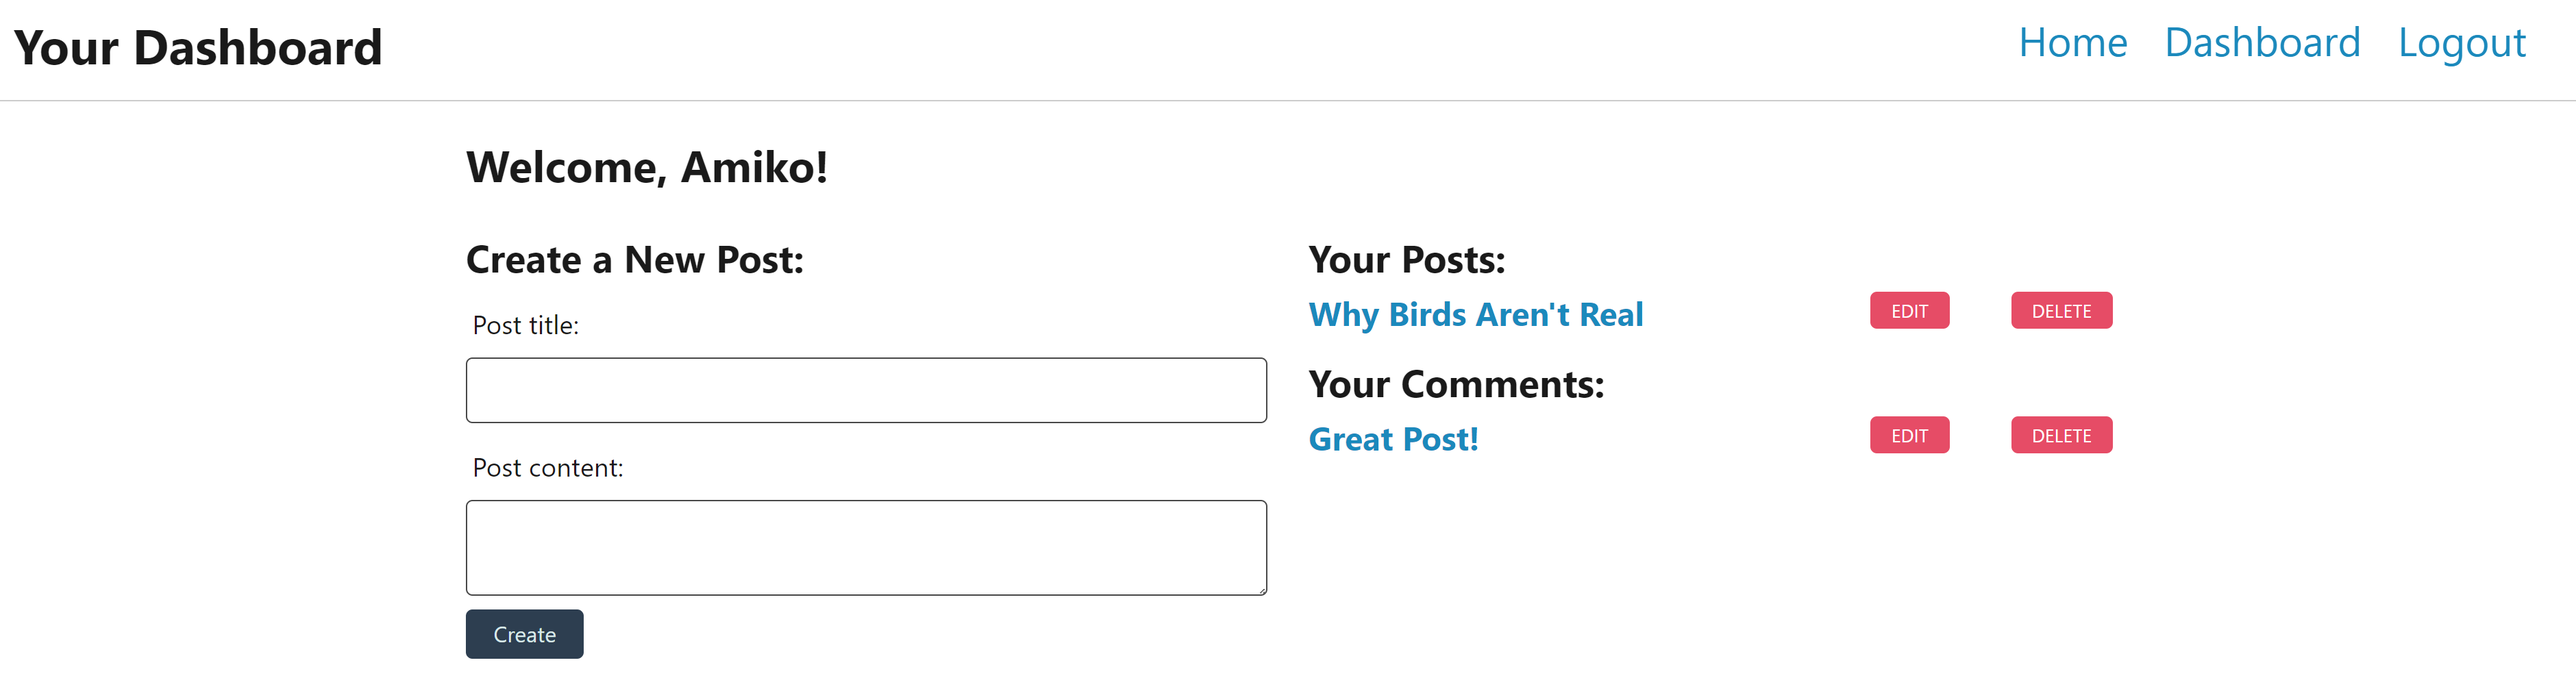
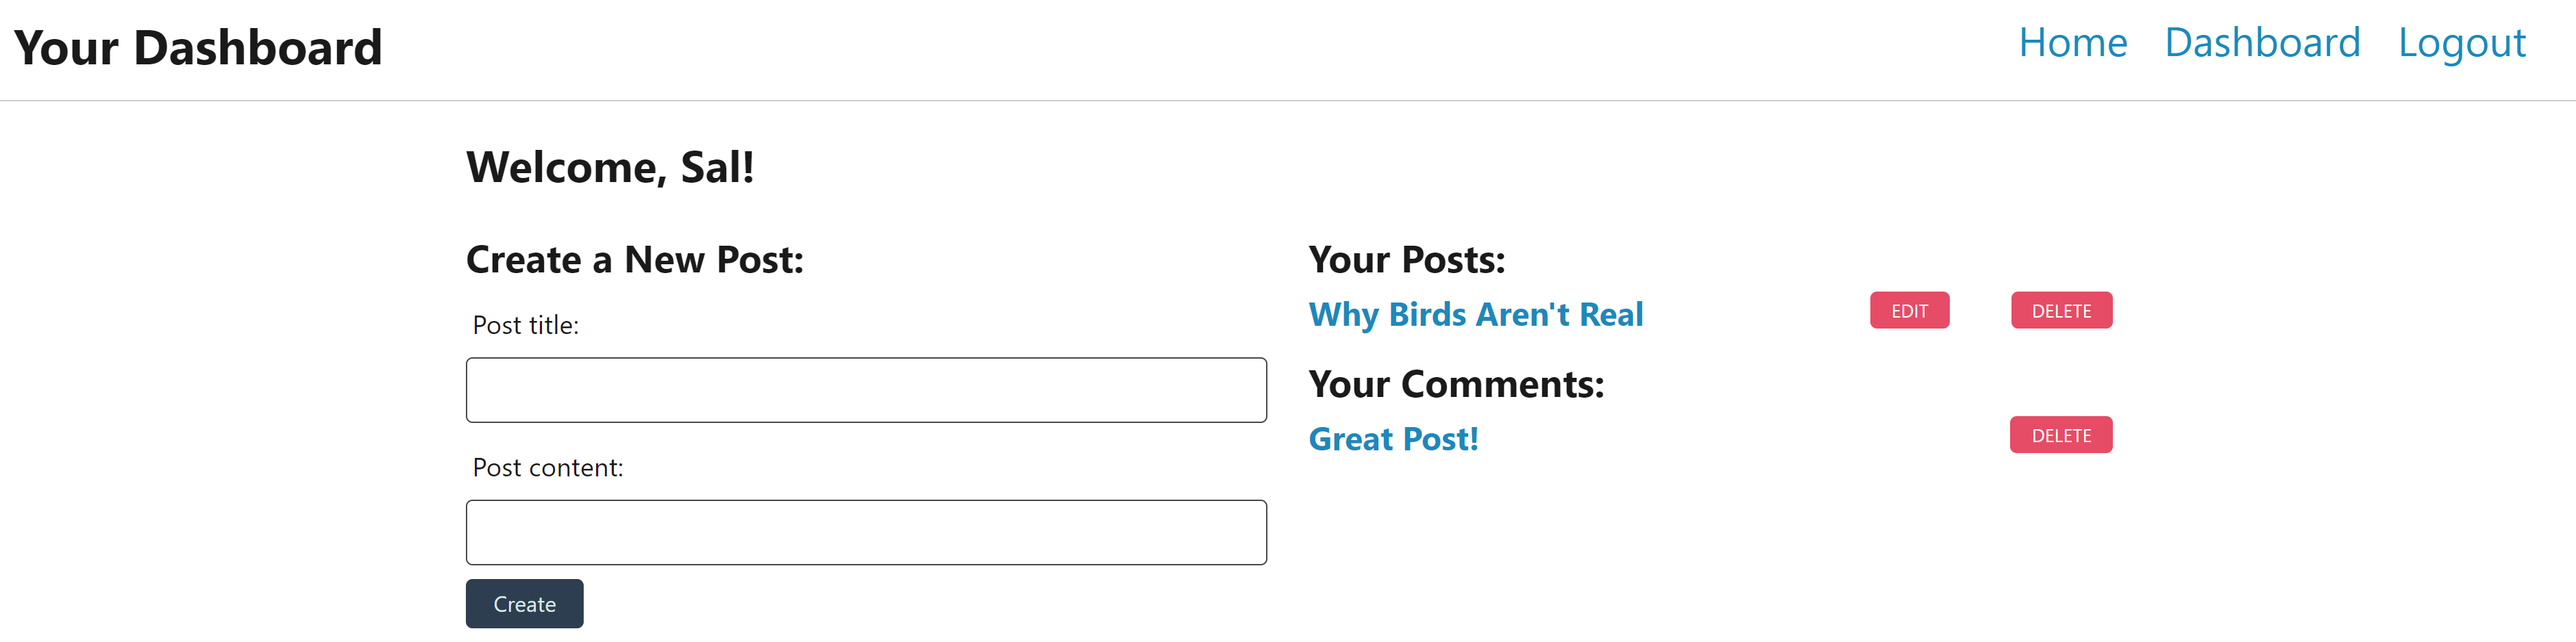
Updated readme.

diff --git a/README.md b/README.md
@@ -9,12 +9,13 @@ Some features of the site are:
 - The user is able to create an account and log into the site.
   - User passwords are secured using bcrypt.
   - When the user creates an account they are taken to their dashboard where they can view/delete their comments/posts.
+  - The User is able to edit existing posts.
   - The user is logged out automatically after ten minutes of inactivity.
   - When viewing a post while logged in the user can choose to add a comment.
 - The user is able to view all posts on the site whether they are logged in or not.
 - All information for users, posts, and comments is stored remotely using SQL/Sequelize.
 
-- Coming Soon: The user will be able to edit their posts/comments
+- Work in progress: The user will be able to edit their comments.
 
 The blog can be found at: https://thawing-tor-30912.herokuapp.com/
 
